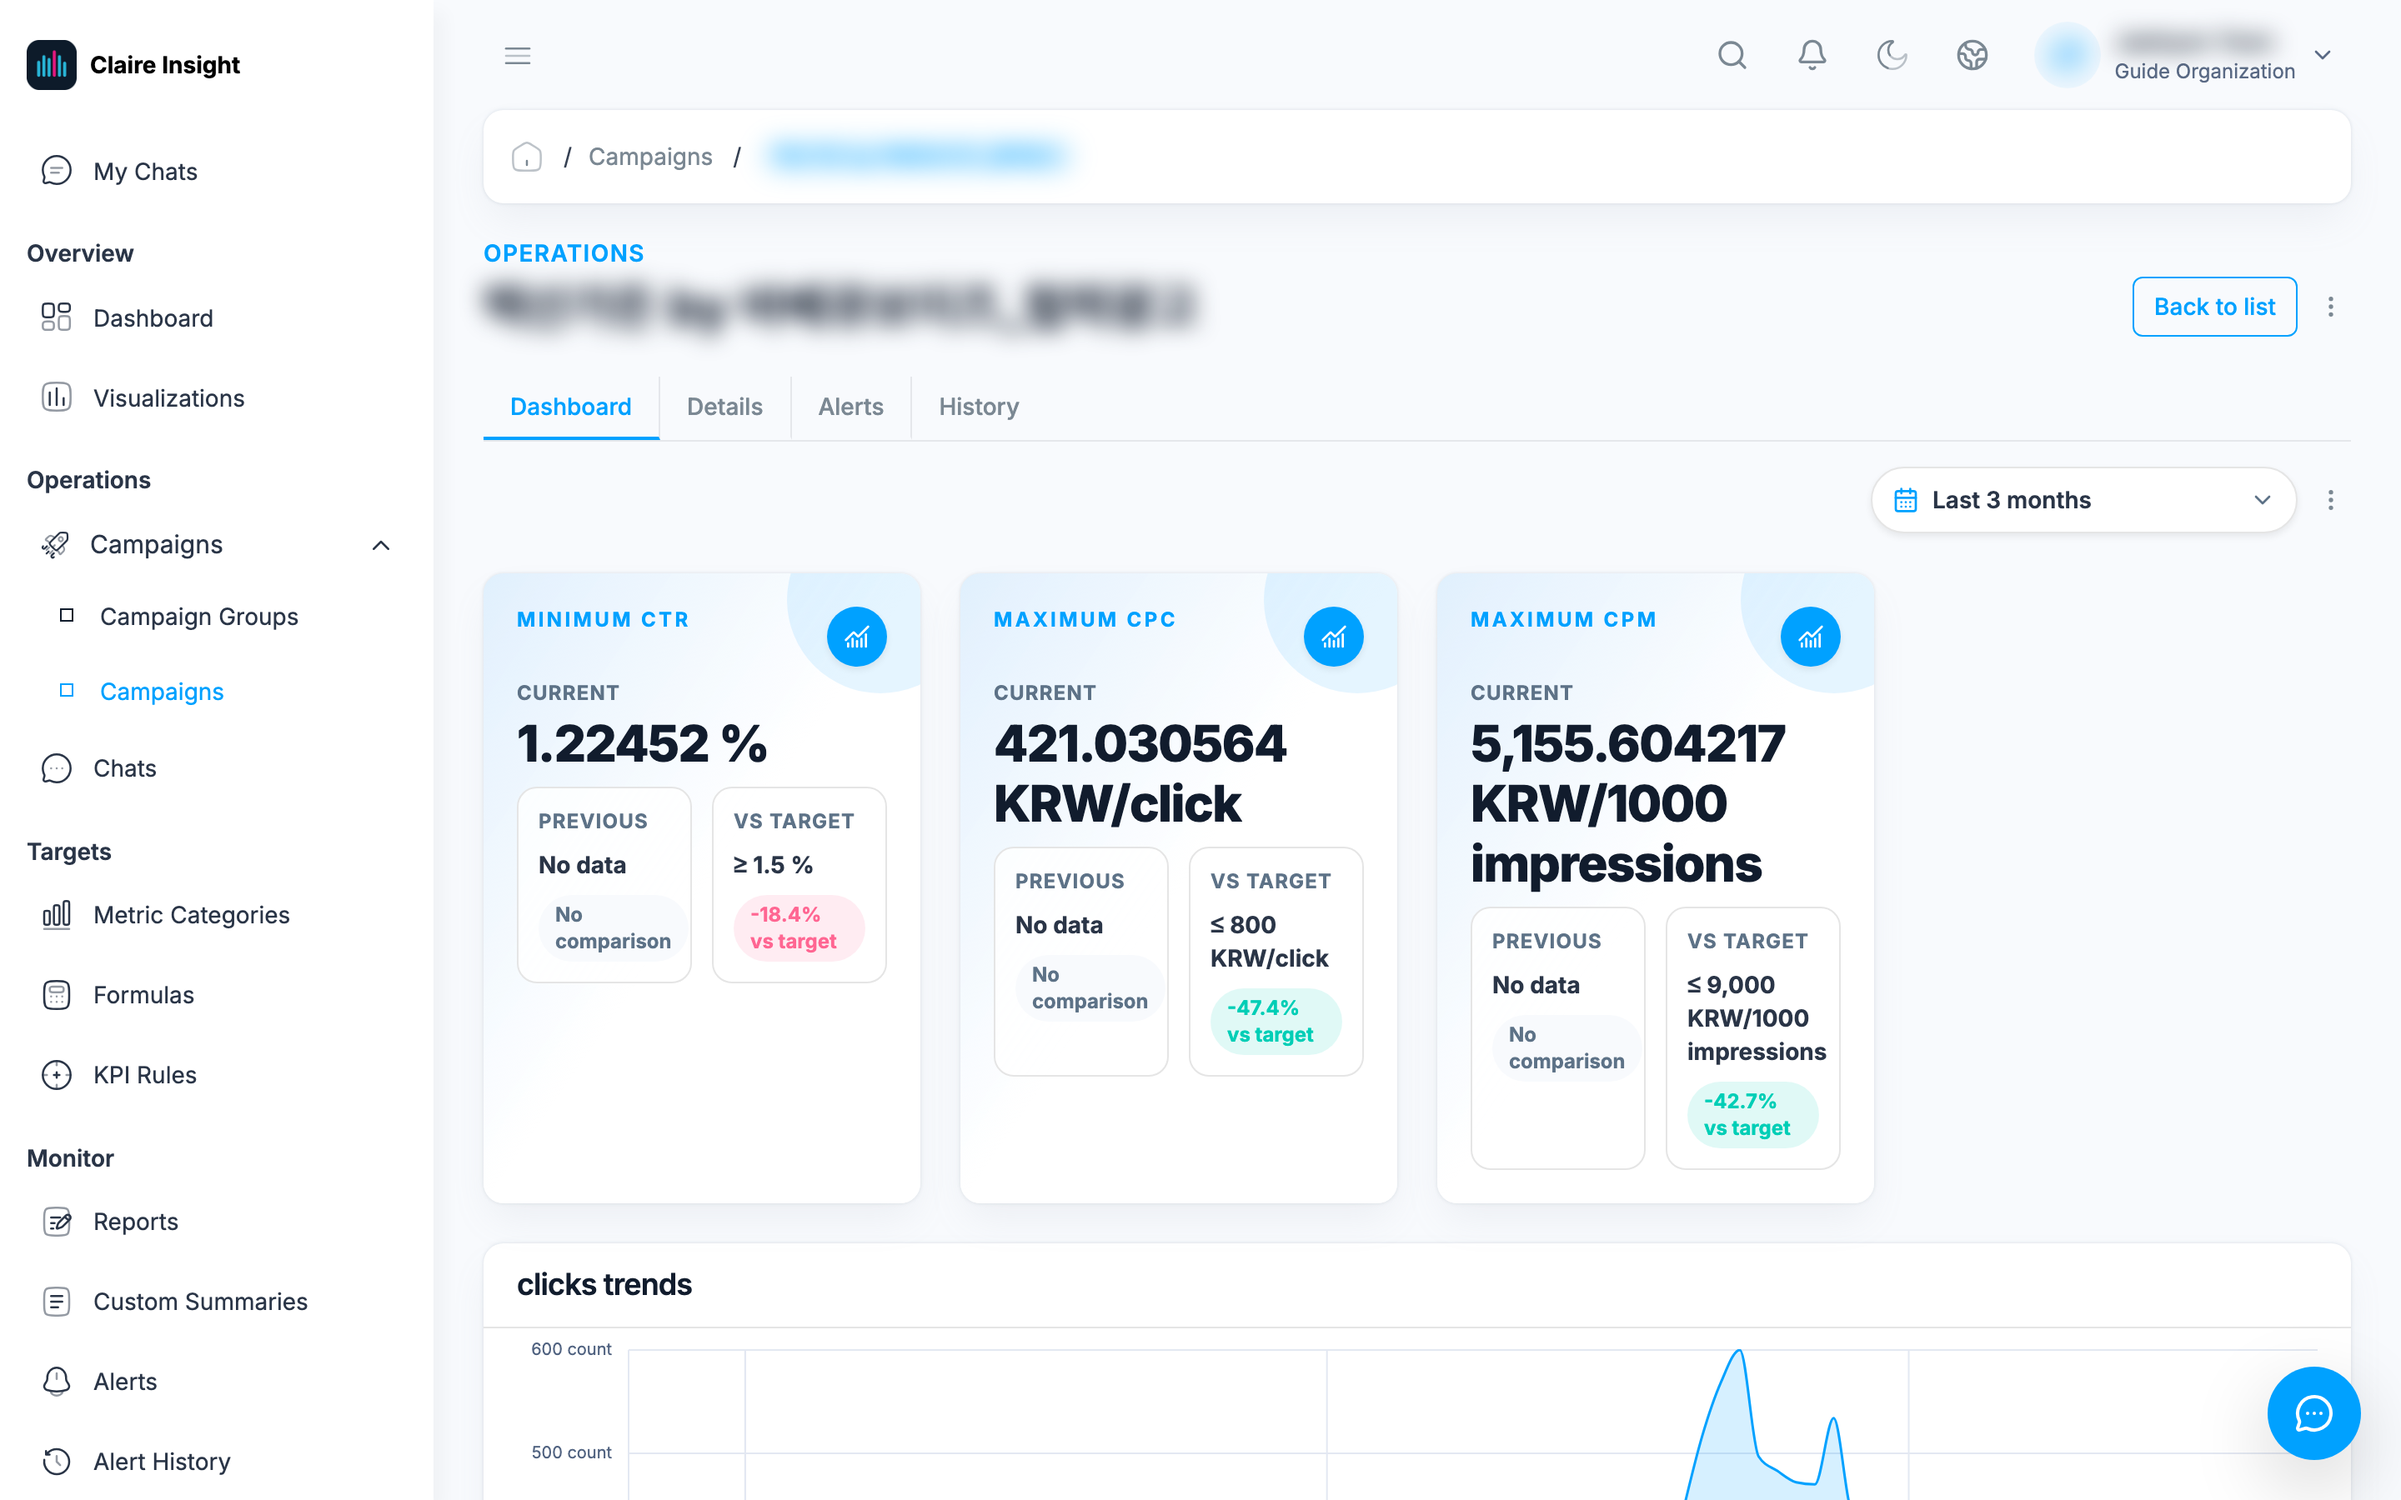
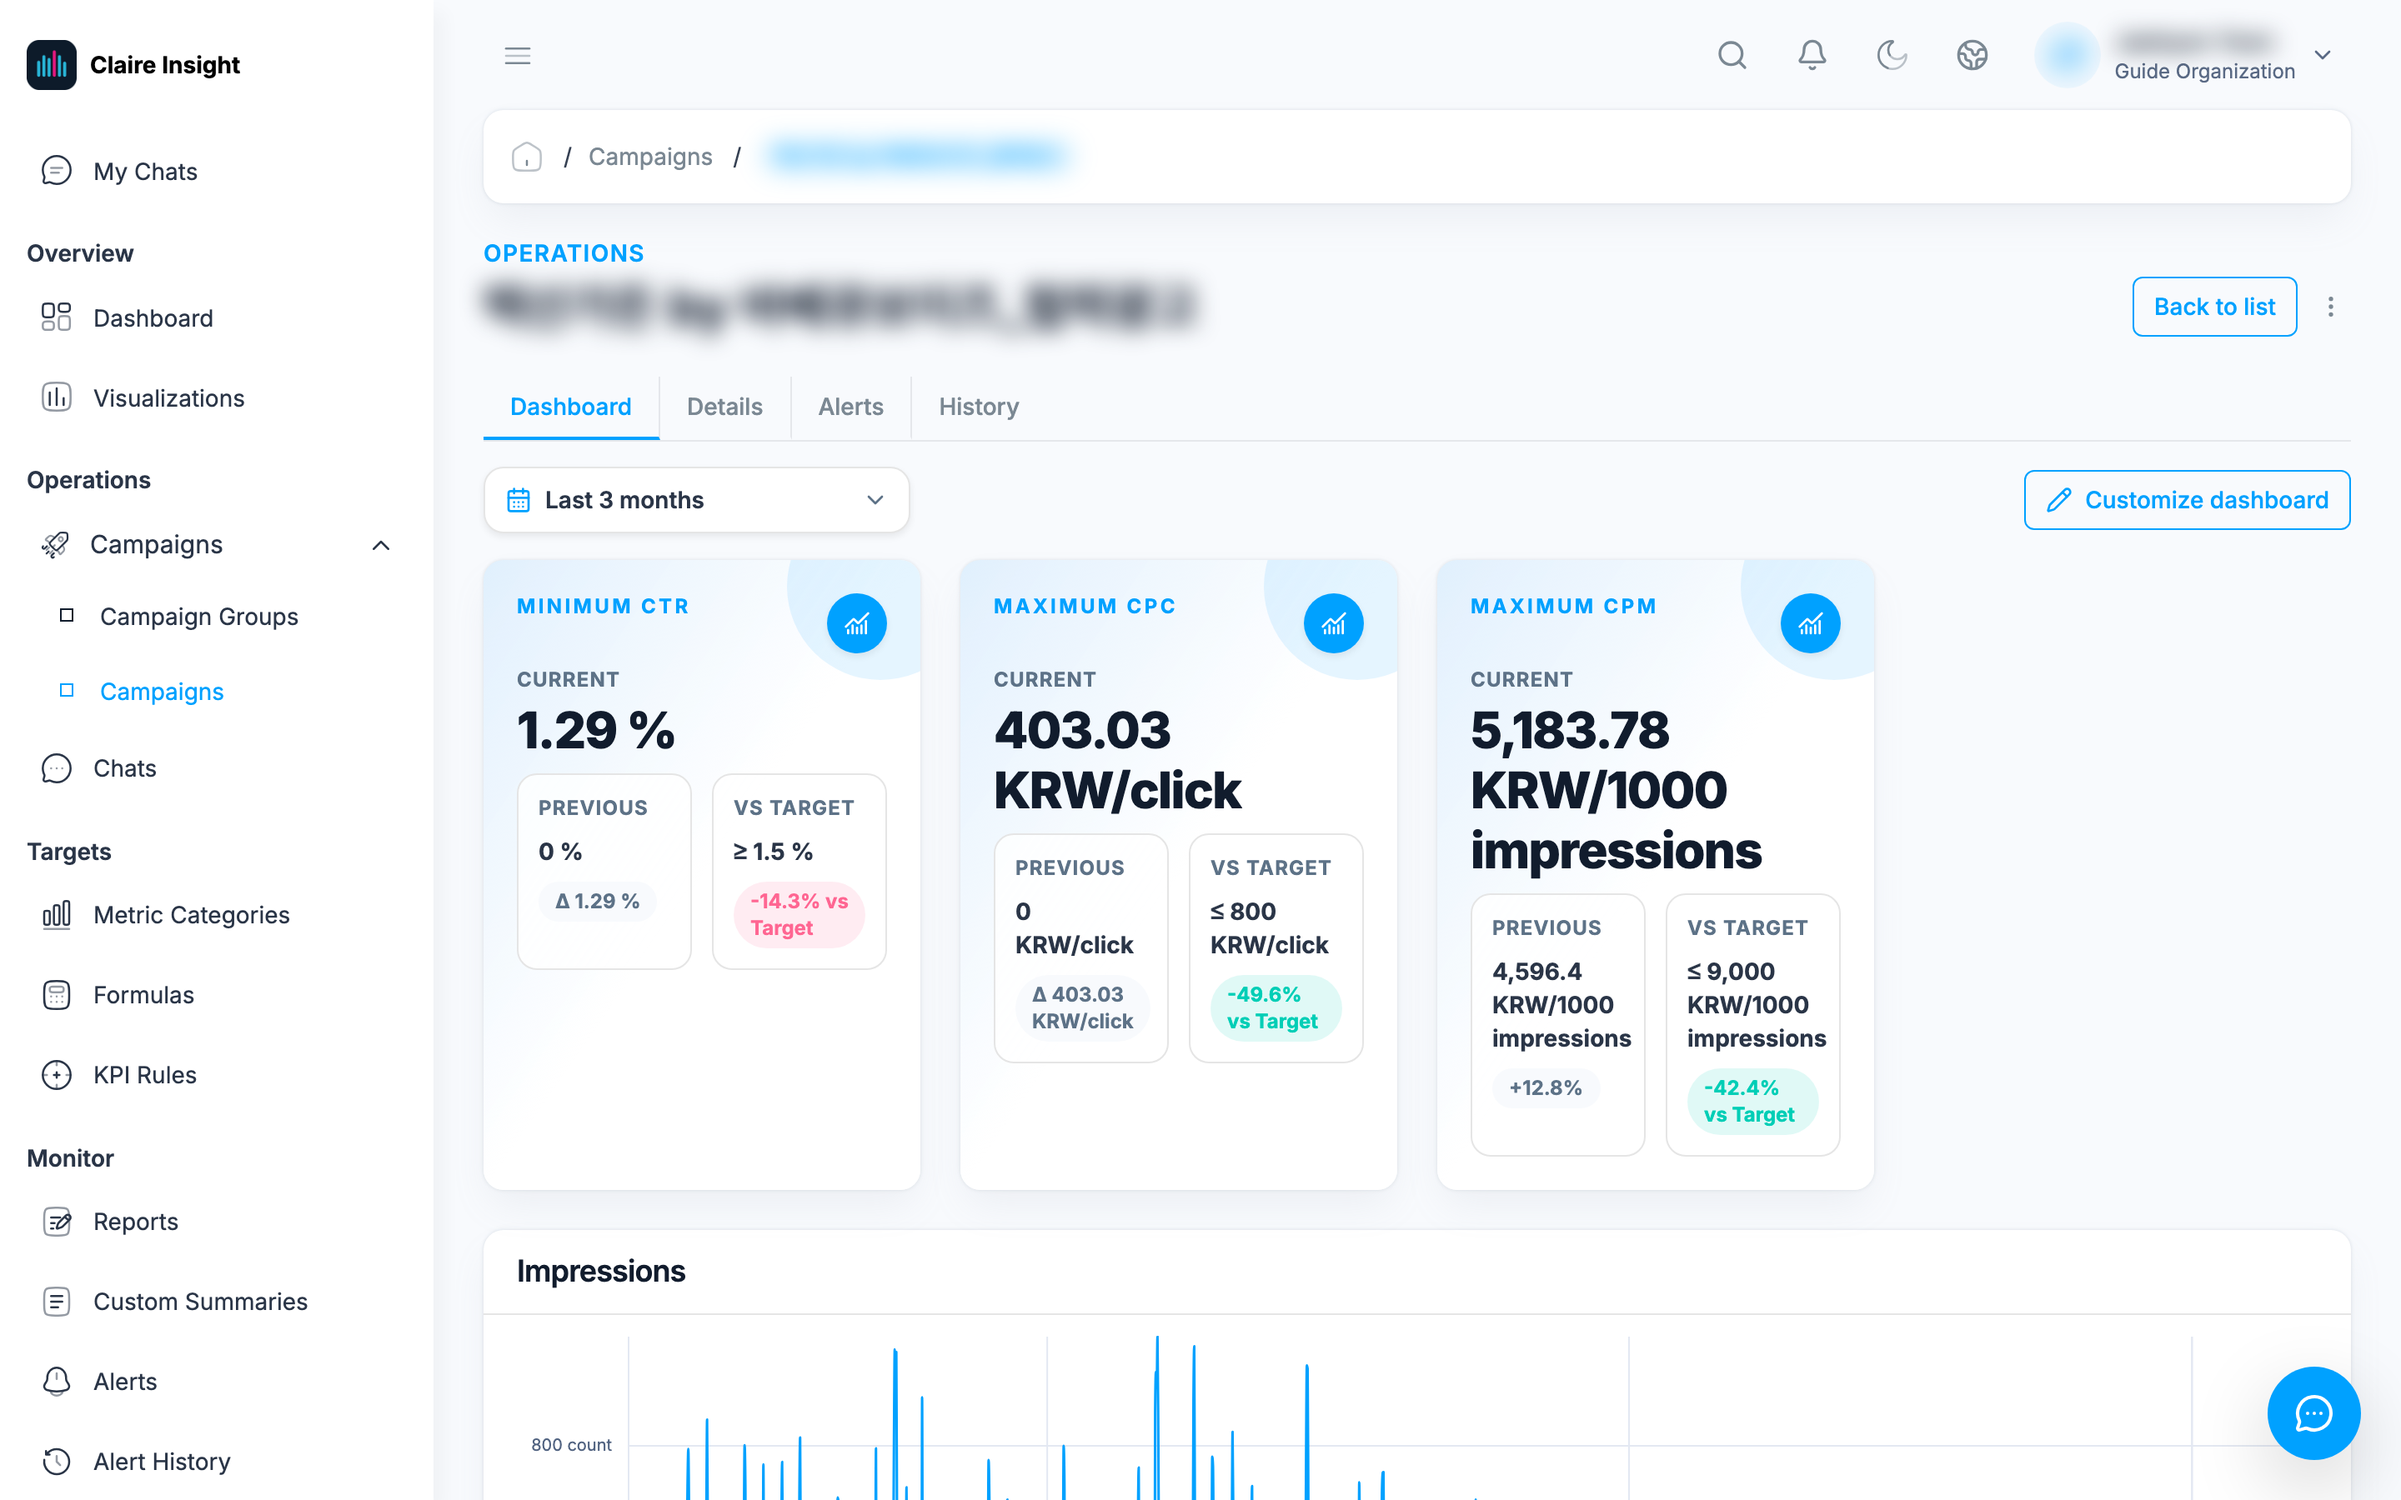
10/7 운영 반영: 알림 집계 기간 문구 변경, Custom Summary 활성화·삭제, 캠페인 대시보드 재촬영

diff --git a/docs-claire/settings.md b/docs-claire/settings.md
@@ -84,14 +84,14 @@ title: 조직 설정과 알림
 
 ### 평가 기간과 데이터 없음
 
-규칙의 **3. Set the evaluation window** 단계에서 평가값을 계산할 구간을 정합니다.
+규칙의 **3. Set the period** 단계에서 평가값을 계산할 구간을 정합니다.
 규칙 안의 모든 감시 값이 같은 구간을 씁니다.
 
 | 항목 | 선택지 | 설명 |
 |---|---|---|
-| **Evaluation period** | Rolling window · Today so far · Month to date · All collected data | 평가 시점에서 N시간 거슬러 보기 / 오늘 0시부터 / 이달 1일부터 / 수집된 전체 |
-| **Rolling window (hours)** | 1~2160시간 | Rolling window일 때만 입력 (기본 24시간) |
-| **Aggregation** | Sum · Average · Minimum · Maximum | Sum은 구간의 원지표를 합친 뒤 공식을 계산(CTR은 총 클릭/총 노출), 나머지는 수집 시점별 값의 평균·최소·최대 |
+| **Period** | Last N hours · Today so far · Month to date · All time | 평가 시점에서 N시간 거슬러 보기 / 오늘 0시부터 / 이달 1일부터 / 수집된 전체 |
+| **Hours to look back** | 1~2160시간 | Last N hours일 때만 입력 (기본 24시간) |
+| **Aggregation** | Sum · Average · Minimum · Maximum over the period | Sum은 구간의 원지표를 합친 뒤 공식을 계산(CTR은 총 클릭/총 노출), 나머지는 수집 시점별 값의 평균·최소·최대 |
 | **Evaluate every (minutes)** | 30~1440분 | 최소 평가 간격 (기본 30분). 수집 주기를 바꾸지는 않습니다 |
 | **Evaluation delay (minutes)** | 0~10080분 | 매체 데이터 반영 지연을 감안해 구간 끝을 뒤로 미룸 (기본 60분) |
 | **Timezone** | IANA 이름 | Today so far · Month to date의 날짜 경계 기준 |
@@ -99,9 +99,9 @@ title: 조직 설정과 알림
 
 - **새로 만드는 규칙의 기본값은 "최근 24시간 합계, 60분 지연"**입니다. 예를 들어
   13:00 평가는 어제 12:00부터 오늘 12:00 직전까지의 데이터로 계산합니다.
-- 이 기능이 생기기 **전에 만든 규칙은 All collected data(캠페인 누적 합계)**로
+- 이 기능이 생기기 **전에 만든 규칙은 All time(캠페인 누적 합계)**로
   유지됩니다. 지출·노출처럼 계속 커지는 지표에 상한을 건 규칙은 캠페인이
-  오래될수록 언젠가 걸리게 되니, Rolling window로 바꾸거나 **일예산 대비 지출
+  오래될수록 언젠가 걸리게 되니, Last N hours로 바꾸거나 **일예산 대비 지출
   비율(budget ratio)** 소스를 쓰세요.
 - 구간에 데이터가 없으면 0으로 보지 않고 **No data**로 기록합니다. 상태는 그대로
   유지되고 위반·복구 연속 횟수만 초기화되며, 복구로 치지도 않습니다. 목록의
@@ -119,7 +119,13 @@ title: 조직 설정과 알림
   수집한 데이터는 그 자리에서 평가되지 않고 다음 정기 평가에 반영됩니다.
 - 규칙을 **수정하면 위반·복구 카운트가 초기화**되어 처음부터 다시 셉니다.
 - 규칙 삭제는 비활성화한 뒤에만 가능합니다.
-- 예산 비율 알림은 캠페인에 일예산(Daily budget max)이 설정돼 있어야 만들 수 있습니다.
+- 예산 비율 알림은 캠페인에 일예산(Daily budget max)이 설정돼 있어야 만들 수 있고,
+  기준값은 0~100%만 입력할 수 있습니다. 지출은 Meta · Kakao Moment는 Spend,
+  그 외 매체는 Media cost 지표로 계산합니다.
+- 기준값(Threshold) 칸은 천 단위 쉼표가 붙어 표시되고, 화면의 지표 값은 소수점
+  둘째 자리까지만 보여줍니다.
+- **Alert History**의 이벤트 종류는 Triggered(발생) · Recovered(복구) ·
+  Repeated(반복 알림) · No data(데이터 없음)입니다.
 
 ## Communication Groups — 알림 채널
 

diff --git a/docs-claire/custom-summaries.md b/docs-claire/custom-summaries.md
@@ -71,6 +71,10 @@ CTR {{ctr}} · 클릭 {{clicks}} · CPC {{cpc}}
 생성·발송되며, 결과는 하단 **Delivery history**에 실행별·채널별로 남습니다
 (상태 pending · sent · failed, 실패 시 오류 메시지).
 
+목록의 행 메뉴와 상세 화면 우상단에서 **Edit · Disable/Enable · Delete**를 할 수
+있습니다. 비활성화하면 예약 발송이 멈추고 다음 발송 시각이 `-`로 표시되며,
+삭제는 알림 규칙처럼 **비활성화한 뒤에만** 가능합니다.
+
 :::note
 Slack 비공개 채널은 봇을 먼저 초대해야 발송됩니다. 이메일은 요약 이름이
 제목이 되고 본문은 마크다운이 HTML로 변환돼 갑니다.
